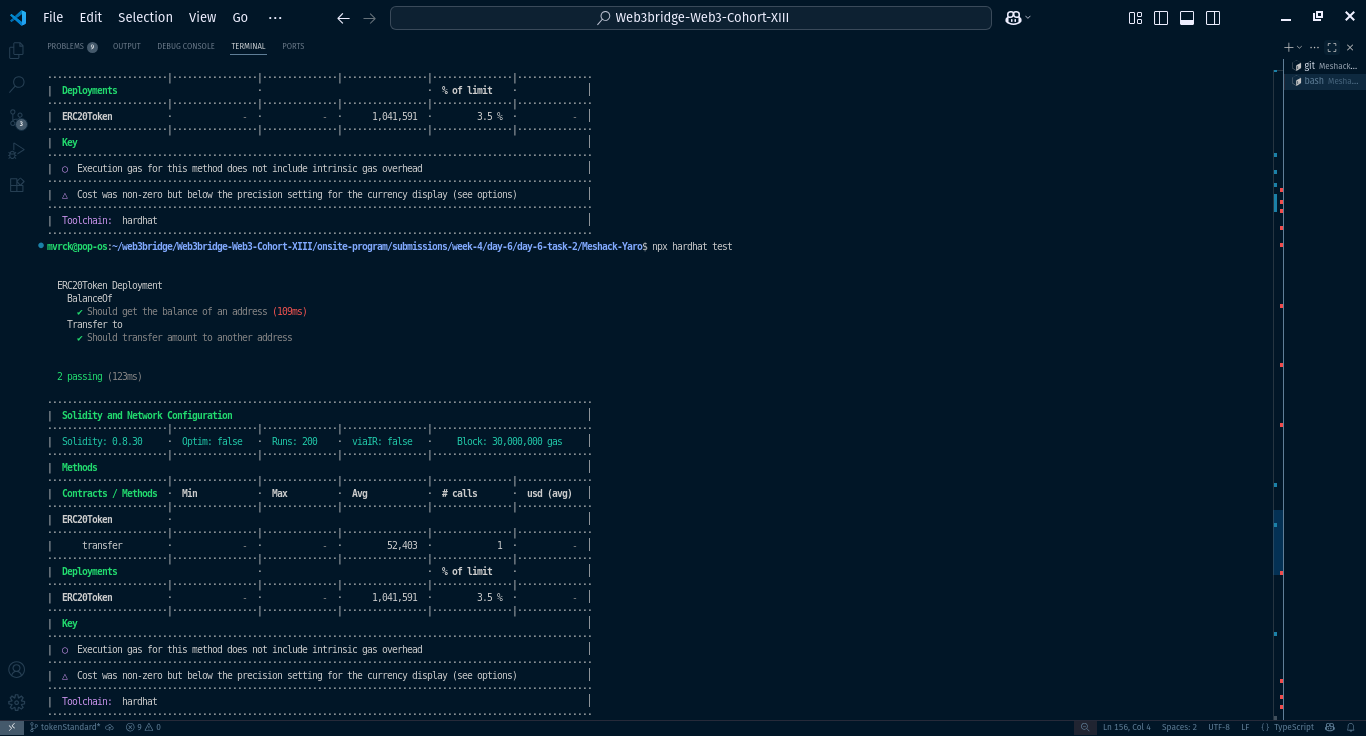
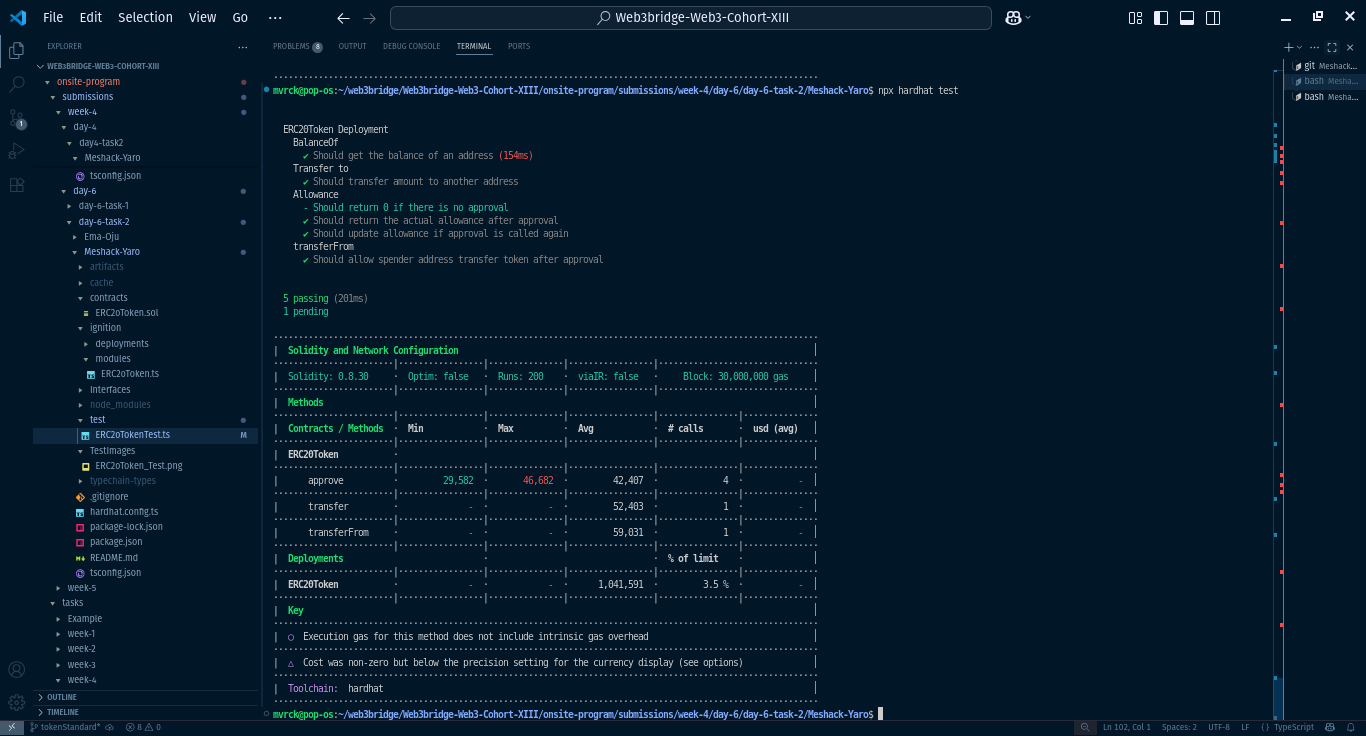
update tests

diff --git a/onsite-program/submissions/week-4/day-6/day-6-task-2/Meshack-Yaro/test/ERC20TokenTest.ts b/onsite-program/submissions/week-4/day-6/day-6-task-2/Meshack-Yaro/test/ERC20TokenTest.ts
@@ -57,10 +57,51 @@ describe("ERC20Token Deployment", function () {
       const {erc20token, owner, otherAccount} = await loadFixture(deployERC20Token);
 
       const allowance = await erc20token._allowance(owner.address, otherAccount.address);
-      expect (allowance).to.equal(0);
-      
+      expect (allowance).to.equal(0);      
     }
-  }
+
+    it("Should return the actual allowance after approval", async function() {
+      const {erc20token, owner, otherAccount} = await loadFixture(deployERC20Token);
+      
+      await erc20token.approve(otherAccount.address, 50000);
+      const allowance = await erc20token.allowance(owner.address, otherAccount.address);
+
+      expect(allowance).to.equal(50000);
+    
+    });
+
+    it("Should update allowance if approval is called again", async function () {
+      const {erc20token, owner, otherAccount} = await loadFixture(deployERC20Token);
+
+      await erc20token.approve(otherAccount.address, 50000);
+      await erc20token.approve(otherAccount.address, 20000);
+
+      const allowance = await erc20token.allowance(owner.address, otherAccount.address);
+      
+      expect(allowance).to.equal(20000);
+      
+    });
+
+  });
+
+  describe("transferFrom", function () {
+    it("Should allow spender address transfer token after approval", async function() {
+      const {erc20token, owner, otherAccount} = await loadFixture(deployERC20Token);
+
+      await erc20token.approve(otherAccount.address, 50000);
+
+      await erc20token.connect(otherAccount).transferFrom(owner.address, otherAccount, 20000);
+
+      const ownerBalance = await erc20token.balanceOf(owner.address);
+      const spenderBalance = await erc20token.balanceOf(otherAccount.address);
+      const remainingAllowance = await erc20token.allowance(owner.address, otherAccount.address);
+
+      expect(ownerBalance).to.equal(100000000 - 20000);
+      expect(spenderBalance).to.equal(20000);
+      expect(remainingAllowance).to.equal(30000);
+
+    });
+  })
 
   //   it("Should set the right owner", async function () {
   //     const { lock, owner } = await loadFixture(deployOneYearLockFixture);
